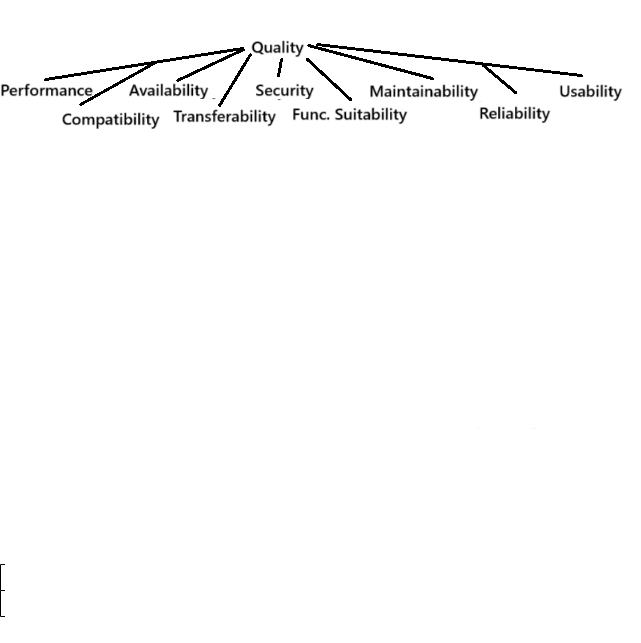
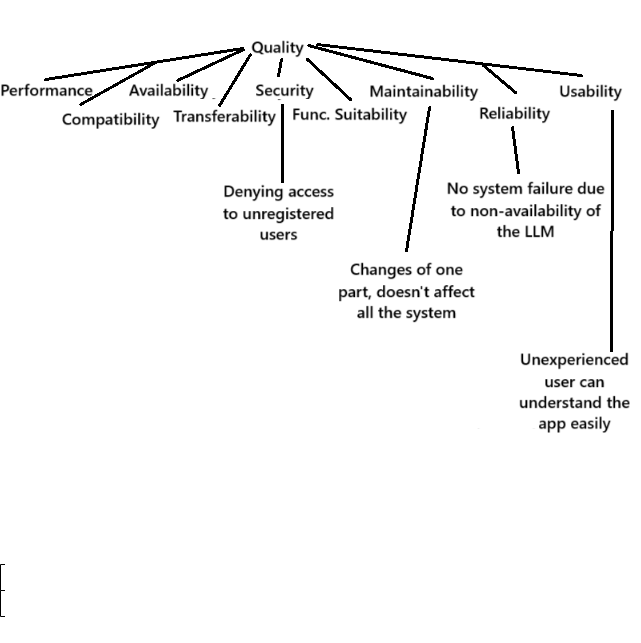
Updates

diff --git a/index.html b/index.html
@@ -1765,6 +1765,9 @@ To ensure this, we did a responsive design and using standard technologies (CSS,
 </div>
 <div class="sect2">
 <h3 id="_quality_scenarios">10.2. Quality Scenarios</h3>
+<div class="paragraph">
+<p>Some quality scenarios are:</p>
+</div>
 <table class="tableblock frame-all grid-all stretch">
 <colgroup>
 <col style="width: 23.0769%;">
@@ -1773,34 +1776,37 @@ To ensure this, we did a responsive design and using standard technologies (CSS,
 </colgroup>
 <thead>
 <tr>
-<th class="tableblock halign-left valign-top"><strong>Scenario Type</strong></th>
-<th class="tableblock halign-left valign-top"><strong>Description</strong></th>
-<th class="tableblock halign-left valign-top"><strong>Expected System Response</strong></th>
+<th class="tableblock halign-left valign-top"><strong>Quality attribute</strong></th>
+<th class="tableblock halign-left valign-top"><strong>Scenario</strong></th>
+<th class="tableblock halign-left valign-top"><strong>Priority</strong></th>
 </tr>
 </thead>
 <tbody>
 <tr>
-<td class="tableblock halign-left valign-top"><p class="tableblock"><strong>Performance</strong></p></td>
-<td class="tableblock halign-left valign-top"><p class="tableblock">The user plays the game and requests a question.</p></td>
-<td class="tableblock halign-left valign-top"><p class="tableblock">The system generates the possible answers and shows an image wasting little time.</p></td>
+<td class="tableblock halign-left valign-top"><p class="tableblock"><strong>Usability</strong></p></td>
+<td class="tableblock halign-left valign-top"><p class="tableblock">When the user enters into the app for the first time, he must understand how to play each game in less than 5 minutes.</p></td>
+<td class="tableblock halign-left valign-top"><p class="tableblock">High, High</p></td>
 </tr>
 <tr>
-<td class="tableblock halign-left valign-top"><p class="tableblock"><strong>Availability</strong></p></td>
-<td class="tableblock halign-left valign-top"><p class="tableblock">The LLM API is temporarily unavailable.</p></td>
-<td class="tableblock halign-left valign-top"><p class="tableblock">The system does not break and provides a good feedback to the user.</p></td>
+<td class="tableblock halign-left valign-top"><p class="tableblock"><strong>Security</strong></p></td>
+<td class="tableblock halign-left valign-top"><p class="tableblock">When the user tries to enter the game without registering, it&#8217;s access is denied</p></td>
+<td class="tableblock halign-left valign-top"><p class="tableblock">High, High</p></td>
+</tr>
+<tr>
+<td class="tableblock halign-left valign-top"><p class="tableblock"><strong>Reliability</strong></p></td>
+<td class="tableblock halign-left valign-top"><p class="tableblock">When the LLM isn&#8217;t available, the system should keep working without failing</p></td>
+<td class="tableblock halign-left valign-top"><p class="tableblock">Medium, High</p></td>
 </tr>
 <tr>
 <td class="tableblock halign-left valign-top"><p class="tableblock"><strong>Maintainability</strong></p></td>
-<td class="tableblock halign-left valign-top"><p class="tableblock">A new hint-generation strategy is introduced.</p></td>
-<td class="tableblock halign-left valign-top"><p class="tableblock">The system integrates it with minimal modifications due to its modular architecture.</p></td>
-</tr>
-<tr>
-<td class="tableblock halign-left valign-top"><p class="tableblock"><strong>Usability</strong></p></td>
-<td class="tableblock halign-left valign-top"><p class="tableblock">An user that is not used to play games or use computers tries the game.</p></td>
-<td class="tableblock halign-left valign-top"><p class="tableblock">The interface is clear and intuitive so the user has no problem playing the game.</p></td>
+<td class="tableblock halign-left valign-top"><p class="tableblock">When we want to change the LLM used, only the part of the system in charged of the LLM should change, and don&#8217;t affect the overall system</p></td>
+<td class="tableblock halign-left valign-top"><p class="tableblock">Low, Medium</p></td>
 </tr>
 </tbody>
 </table>
+<div class="paragraph">
+<p>customer, architect</p>
+</div>
 <div style="page-break-after: always;"></div>
 </div>
 </div>
